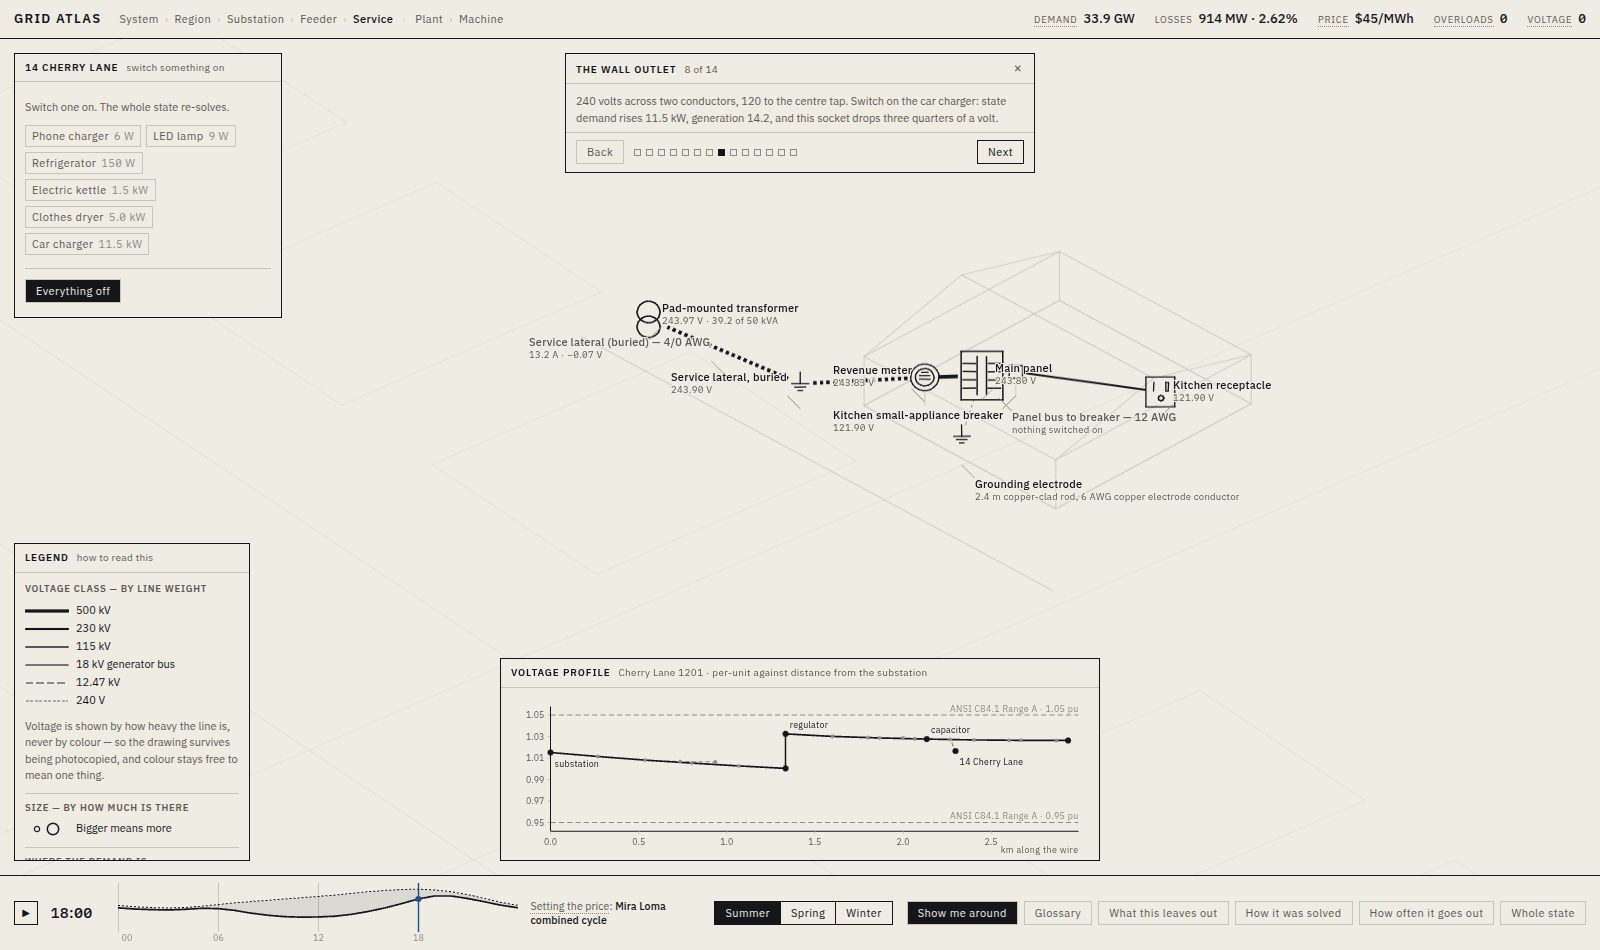
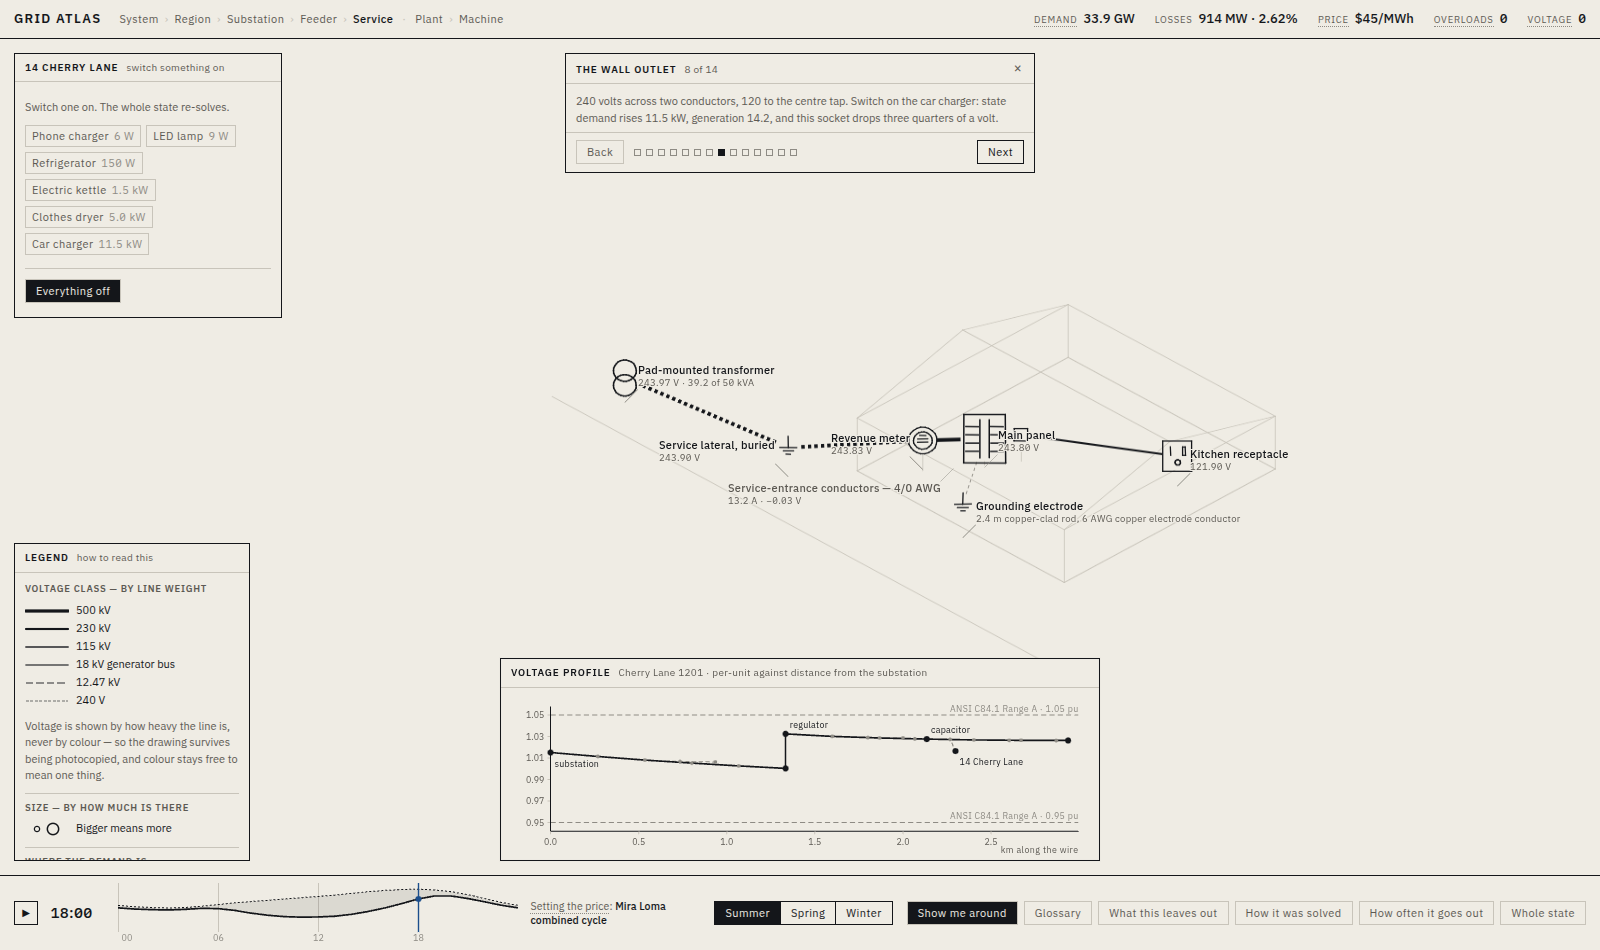
Arrive where you said you would, and agree about where that is
THE ZOOM WAS GENUINELY BROKEN, and this is what was wrong with it. The
scale a flight was allowed to reach was clamped by a floor recomputed
every frame from whatever happened to be UNDER the camera. Half way
across the state on the way to one house, the only thing under it was a
distribution feeder, whose floor is a third of a metre per pixel — so
the journey stopped there, finished, and left the reader looking at a
street from three hundred metres up wondering why zooming had stopped
working. It depended on the route, so it came and went.

The floor is about where the camera IS; a flight is about where it is
going, and a destination the application chose is legible by
construction. Flights and framing now set the scale exactly, and the
floor keeps doing its real job of stopping a wheel-zoom into a blank
page.

tools/navigate.mjs walks all forty-two journeys between the seven
levels and fails if a destination is reached at a different scale
depending on where the journey started. It found two more: the machine
leaves its capability panel open, so every destination reached FROM the
machine was framed around a panel that was about to close. All
forty-two now agree.

THE BREADCRUMB AND THE PANEL NO LONGER DISAGREE. In the wide gap
between a feeder and a region the breadcrumb read Region while the
panel beside it was headed Cherry Lane 1201 and the feeder filled the
page. Every scene answers for itself now; the region, which is the one
[…]

Changed region(s): [[0.3438, 0.3053, 0.8125, 0.5495]]

diff --git a/src/render/scene-plant.ts b/src/render/scene-plant.ts
@@ -228,6 +228,80 @@ export function drawPlant(
     }
   }
 
+  // --- what else is inside the fence ---------------------------------------
+  //
+  // A combined-cycle station is not two turbines in a field. The energy chain
+  // is the subject and rightly has the drawing to itself, but with nothing
+  // else inside the boundary the site read as a large empty diamond with the
+  // interesting part pushed into one corner — and a reader who has just been
+  // told this is a real place is entitled to ask what the rest of it is.
+  //
+  // So: the building the plant is run from, the water plant that feeds the
+  // steam cycle and the cooling tower, the road in, and the gas line arriving
+  // from off site. All scenery — no picks, no numbers, one name each — drawn
+  // at the weight of the boundary they sit inside.
+  {
+    const site = (x: number, y: number): Vector3 =>
+      new Vector3(PLANT_ORIGIN.x + x, 0, PLANT_ORIGIN.z - y);
+    const scenery = (
+      ax: number, ay: number, bx: number, by: number,
+      widthPx = 0.9, opacity = 1
+    ): void => {
+      const a = site(ax, ay);
+      const b = site(bx, by);
+      mark({
+        a: [a.x, 0, a.z], b: [b.x, 0, b.z],
+        widthPx, color: INK.inkFaint, opacity,
+      }, Number.MAX_SAFE_INTEGER - 19);
+    };
+    const box = (
+      x: number, y: number, w: number, d: number, h: number
+    ): void => {
+      const cs: [number, number][] = [
+        [x - w / 2, y - d / 2], [x + w / 2, y - d / 2],
+        [x + w / 2, y + d / 2], [x - w / 2, y + d / 2], [x - w / 2, y - d / 2],
+      ];
+      for (let k = 0; k + 1 < cs.length; k++) {
+        scenery(cs[k][0], cs[k][1], cs[k + 1][0], cs[k + 1][1], 1.0);
+      }
+      if (h > 0) {
+        const a = site(x - w / 2, y + d / 2);
+        mark({
+          a: [a.x, 0, a.z], b: [a.x, h, a.z],
+          widthPx: 0.8, color: INK.inkFaint,
+        }, Number.MAX_SAFE_INTEGER - 19);
+      }
+    };
+
+    // The control building, in the corner the switchyard leaves empty.
+    box(206, 20, 34, 18, 8);
+    // Water treatment: the cooling tower and the steam cycle both drink.
+    box(206, 140, 26, 22, 4);
+    for (let k = 1; k < 4; k++) {
+      scenery(193 + k * 6.5, 129, 193 + k * 6.5, 151, 0.7, 0.55);
+    }
+    // The road in, past the control building and up the length of the site.
+    scenery(260, 12, 30, 12, 0.8, 0.45);
+    scenery(260, 28, 30, 28, 0.8, 0.45);
+    scenery(30, 12, 30, 150, 0.8, 0.45);
+    scenery(46, 12, 46, 150, 0.8, 0.45);
+    // The gas, arriving from off site. It is a pipeline tap, not a tank.
+    scenery(16, 28, -12, 28, 1.2, 0.9);
+
+    labels.push({
+      id: 'plant:control-building',
+      world: site(206, 20),
+      text: 'Control building',
+      side: 'below', priority: 700, tone: 'muted',
+    });
+    labels.push({
+      id: 'plant:gas-in',
+      world: site(-10, 28),
+      text: 'Gas, from the interstate pipeline',
+      side: 'above', priority: 690, tone: 'muted',
+    });
+  }
+
   // --- buildings, as footprints at their true size --------------------------
   for (const i of PLANT_ITEMS) {
     if (!i.sizeM) continue;
@@ -370,11 +444,21 @@ export function drawPlant(
       ? `${formatPower(stream.mw)} · ${(stream.fraction * 100).toFixed(1)} % of the fuel`
       : stream ? formatPower(stream.mw)
         : emphasised && i.rating ? i.rating : undefined;
+    // A LABEL SITS ON THE SIDE AWAY FROM THE MIDDLE OF THE PLANT.
+    //
+    // The station is two identical trains with the steam plant between them,
+    // and the drawing is a flow left to right. Left to itself the layout put
+    // whichever caption came first wherever there was room, so names landed in
+    // the middle of the ducts they belonged to and on top of the other train's
+    // equipment. Pushing each one outwards leaves the flow between the trains
+    // clear, which is the part of the drawing that is doing the teaching.
+    const north = i.at[1] > PLANT_SITE.depthM / 2;
     labels.push({
       id: `plant:${i.id}`,
       world: p,
       text: i.name,
       ...(value ? { value } : {}),
+      side: north ? 'above' : 'below',
       priority: plantPriority(i) + (emphasised ? 5000 : 0),
       tone: isSelected ? 'selected' : 'normal',
     });
@@ -483,7 +567,9 @@ export function plantBounds(): {
   min: { x: number; z: number; y?: number };
   max: { x: number; z: number; y?: number };
 } {
-  const pad = 20;
+  // Just outside the fence. A wider pad framed twenty metres of empty tarmac on
+  // every side of a drawing that was already struggling to fill the page.
+  const pad = 6;
   return {
     min: {
       x: PLANT_ORIGIN.x - pad, z: PLANT_ORIGIN.z - PLANT_SITE.depthM - pad, y: 0,

diff --git a/src/app/main.ts b/src/app/main.ts
@@ -390,13 +390,14 @@ function refreshForScene(): void {
  * The panels are all anchored to the same edge and overlap each other, so the
  * inset is the widest one that is actually on screen, not their sum.
  */
-function rightPanelInsetPx(): number {
+function rightPanelInsetPx(without: string[] = []): number {
   let widest = 0;
   for (const el of document.querySelectorAll<HTMLElement>(
     '.panel--inspect, .panel--tcc, .panel--solver, .panel--reliability, ' +
     '.panel--machine, .panel--math'
   )) {
     if (el.style.display === 'none' || el.offsetParent === null) continue;
+    if (without.some((c) => el.classList.contains(c))) continue;
     widest = Math.max(widest, el.getBoundingClientRect().width);
   }
   return widest > 0 ? widest + 18 : 0;
@@ -425,10 +426,13 @@ const MACHINE_PANEL_PX = 430 + 18;
 function insetsOnArrival(id: LevelId): { bottom: number; right: number } {
   return {
     bottom: id === 'feeder' || id === 'service' ? 186 : 0,
+    // The capability curve opens by itself at the machine and closes on the way
+    // out, so it counts at that destination and nowhere else. Panels that
+    // belong to a SELECTION rather than to a level stay where they are, and are
+    // measured as they stand.
     right: id === 'machine'
-      ? MACHINE_PANEL_PX
-      // Panels that belong to a selection, not to a level, stay where they are.
-      : rightPanelInsetPx(),
+      ? Math.max(MACHINE_PANEL_PX, rightPanelInsetPx(['panel--machine']))
+      : rightPanelInsetPx(['panel--machine']),
   };
 }
 
@@ -475,8 +479,21 @@ function onCamera(mpp: number, level: LevelId): void {
   // On the generation branch the scene decides; on the distribution branch the
   // scale does, because there the two agree.
   const scene = dominantScene();
+  // WHERE THE BREADCRUMB SAYS YOU ARE IS WHAT YOU ARE LOOKING AT.
+  //
+  // The scale band and the drawing on screen used to be allowed to disagree,
+  // and in the wide gap between a feeder and a region they did: the breadcrumb
+  // read Region while the panel beside it was headed Cherry Lane 1201 and the
+  // feeder filled the middle of the page. Every scene answers for itself now.
+  //
+  // The exception is the region, which is the one level with no drawing of its
+  // own — it is the system view at a regional scale — so there the scale still
+  // has to say so.
   const here: LevelId =
-    scene === 'plant' || scene === 'machine' ? scene : level;
+    scene === null ? level
+      : scene === 'system' ? (level === 'region' ? 'region' : 'system')
+      : scene === 'ground' ? level
+      : scene;
   renderBreadcrumb(here);
   side.setScope(here as ScopeId);
 

diff --git a/src/render/labels.ts b/src/render/labels.ts
@@ -40,6 +40,14 @@ export interface LabelSpec {
   /** Offset from the projected point, in pixels. Defaults to up and right. */
   offsetPx?: [number, number];
   /**
+   * Which side of its subject the label prefers to sit on.
+   *
+   * Left unset the layout picks whichever of six positions is free, which is
+   * right for a map of a state and wrong for a chain of equipment: see ABOVE
+   * and BELOW below.
+   */
+  side?: 'above' | 'below';
+  /**
    * How strongly to draw it, 0 to 1.
    *
    * Set by the compositor from the opacity of the scene the label came from.
@@ -71,6 +79,19 @@ const overlaps = (a: Rect, b: Rect, pad: number): boolean =>
 const PLACEMENTS: [number, number][] = [
   [1, -1], [-1, -1], [1, 1], [-1, 1], [0, -1.6], [0, 1.6],
 ];
+
+/**
+ * The same candidates, restricted to one side.
+ *
+ * A drawing that is a CHAIN — a transformer, a meter, a panel, a socket, with a
+ * length of wire between each — reads as scattered annotation when half its
+ * captions land above the run and half below, and as a labelled diagram when
+ * the things are named on one side and the wires between them on the other.
+ * The layout still drops what does not fit; it just stops choosing sides at
+ * random.
+ */
+const ABOVE: [number, number][] = [[1, -1], [-1, -1], [0, -1.6]];
+const BELOW: [number, number][] = [[1, 1], [-1, 1], [0, 1.6]];
 
 export class LabelLayer {
   readonly element: HTMLDivElement;
@@ -136,7 +157,9 @@ export class LabelLayer {
       }
       const size = this.measure(spec);
       let put: PlacedLabel | null = null;
-      for (const [sx, sy] of PLACEMENTS) {
+      const tries = spec.side === 'above' ? ABOVE
+        : spec.side === 'below' ? BELOW : PLACEMENTS;
+      for (const [sx, sy] of tries) {
         const off = spec.offsetPx ?? [LAYOUT.labelOffsetPx, LAYOUT.labelOffsetPx];
         const x = px.x + (sx >= 0 ? off[0] : -off[0] - size.w) + (sx === 0 ? -size.w / 2 : 0);
         const y = px.y + (sy >= 0 ? off[1] : -off[1] - size.h);

diff --git a/src/render/iso.ts b/src/render/iso.ts
@@ -92,9 +92,34 @@ export class IsoCamera {
     this.camera.updateMatrixWorld();
   }
 
+  /**
+   * Zoom, respecting the floor the compositor set for where the camera IS.
+   *
+   * This is the setter for the wheel and the pinch: a reader dragging the zoom
+   * in over open country should stop where the last drawing fades out rather
+   * than sail on into a blank page.
+   */
   setZoom(metresPerPixel: number): void {
     const floor = Math.max(ZOOM.min, this.floorScale);
     this.metresPerPixel = clamp(metresPerPixel, floor, ZOOM.max);
+    this.apply();
+  }
+
+  /**
+   * Zoom to exactly this scale, floor or no floor.
+   *
+   * THE FLOOR IS ABOUT WHERE THE CAMERA IS, AND A FLIGHT IS ABOUT WHERE IT IS
+   * GOING. Clamping a commanded flight by it is how travelling from the whole
+   * state to one house used to strand the camera half way: the floor is
+   * recomputed each frame from what is under the camera, and half way across
+   * California the only thing under it was a distribution feeder, whose floor
+   * is a third of a metre per pixel. The flight then could not go below that,
+   * finished early, and left the reader looking at a street from three hundred
+   * metres up wondering why the zoom had stopped working. A destination the
+   * application chose is legible by construction.
+   */
+  setZoomExact(metresPerPixel: number): void {
+    this.metresPerPixel = clamp(metresPerPixel, ZOOM.min, ZOOM.max);
     this.apply();
   }
 
@@ -253,7 +278,7 @@ export class IsoCamera {
 
     const availW = Math.max(1, this.viewportWidth - left - right - marginPx * 2);
     const availH = Math.max(1, this.viewportHeight - top - bottom - marginPx * 2);
-    this.setZoom(Math.max(spanX / availW, spanY / availH, ZOOM.min));
+    this.setZoomExact(Math.max(spanX / availW, spanY / availH, ZOOM.min));
 
     // Centre what is actually drawn, in the space that is actually visible.
     //

diff --git a/src/render/scene-feeder.ts b/src/render/scene-feeder.ts
@@ -477,8 +477,18 @@ export function drawFeeder(
     // captions on long leaders reaching into empty paper — which is what made
     // the approach to the feeder look broken. Only the pieces of equipment
     // keep a name until the poles are far enough apart to point at.
-    const spacious = camera.metresPerPixel < 8;
+    // Two thresholds, both about whether a caption can be read where it is.
+    //
+    // Far out, the whole feeder is a hundred-pixel clump and naming the
+    // recloser, the regulator, the capacitor and the tie point puts four
+    // two-line captions around a smudge — the text then IS the drawing, which
+    // is exactly the state the approach to the feeder used to be in. Closer,
+    // the equipment can be pointed at; closer still, so can the poles.
+    const mpp = camera.metresPerPixel;
+    const spacious = mpp < 8;
+    const closeEnoughToName = mpp < 13;
     if (!bus) continue;
+    if (!closeEnoughToName && !isSelected && !isHovered) continue;
     if (!spacious && !kit && !isSelected && !isHovered && node.id !== 'SVC_LV') {
       picks.push({
         id: node.id, kind: 'site', world: top.clone(),

diff --git a/src/app/viewport.ts b/src/app/viewport.ts
@@ -258,9 +258,8 @@ export class Viewport {
   ): void {
     const startTarget = this.camera.target.clone();
     const startScale = this.camera.metresPerPixel;
-    const endScale = Math.max(
-      Math.max(ZOOM.min, this.camera.floorScale),
-      Math.min(ZOOM.max, metresPerPixel));
+    // Not clamped by the compositor's floor: see IsoCamera.setZoomExact.
+    const endScale = Math.max(ZOOM.min, Math.min(ZOOM.max, metresPerPixel));
     const t0 = performance.now();
 
     const step = () => {
@@ -272,7 +271,7 @@ export class Viewport {
       this.camera.target.lerpVectors(startTarget, target, e);
       // Scale interpolates geometrically: zoom is multiplicative, so a linear
       // blend would crawl at the far end and lurch at the near one.
-      this.camera.setZoom(startScale * Math.pow(endScale / startScale, e));
+      this.camera.setZoomExact(startScale * Math.pow(endScale / startScale, e));
       this.invalidate();
       this.events.onCameraChange?.(
         this.camera.metresPerPixel, levelForScale(this.camera.metresPerPixel)

diff --git a/src/app/scenes.ts b/src/app/scenes.ts
@@ -90,7 +90,11 @@ const ENVELOPE: Record<SceneId, [number, number, number, number]> = {
   // The generation branch. These overlap the distribution ones in SCALE but
   // never on the page, because they are three hundred kilometres away and the
   // compositor culls a scene whose bounds the camera cannot see.
-  plant:      [0.045, 0.09, 0.70, 1.6],
+  // Gone by the time the machine is legible. The generator is drawn as a
+  // CROSS-SECTION, not as a thing standing in the yard, so the station behind
+  // it is not the same place seen from further out — it is a handful of
+  // kilometre-long lines crossing the page at angles that mean nothing there.
+  plant:      [0.058, 0.11, 0.70, 1.6],
   machine:    [0, 0, 0.055, 0.12],
 };
 

diff --git a/src/render/scene-service.ts b/src/render/scene-service.ts
@@ -260,6 +260,8 @@ export function drawService(
           : `${step.currentA.toFixed(1)} A · −${step.dropV.toFixed(2)} V`,
         priority: isSelected ? 5400 : 320,
         tone: isSelected ? 'selected' : 'muted',
+        // The wires below the chain, the things they join above it.
+        side: 'below',
       });
     }
 
@@ -337,6 +339,7 @@ export function drawService(
           }
         : v !== undefined ? { value: `${v.toFixed(2)} V` }
         : n.rating ? { value: n.rating } : {}),
+      side: 'above',
       priority: servicePriority(n) + (isSelected || isHovered ? 5000 : 0),
       tone: isSelected ? 'selected' : outOfRange ? 'alarm' : 'normal',
     });
